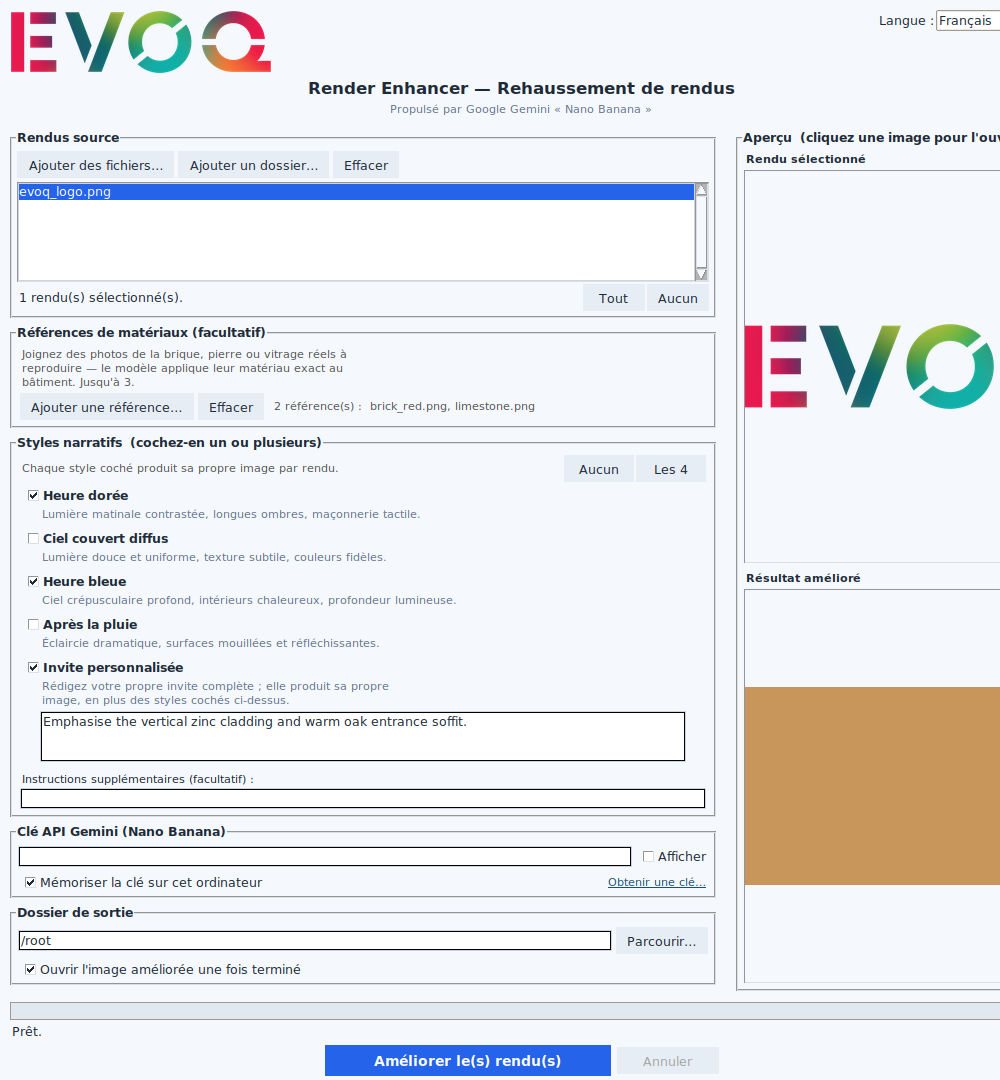
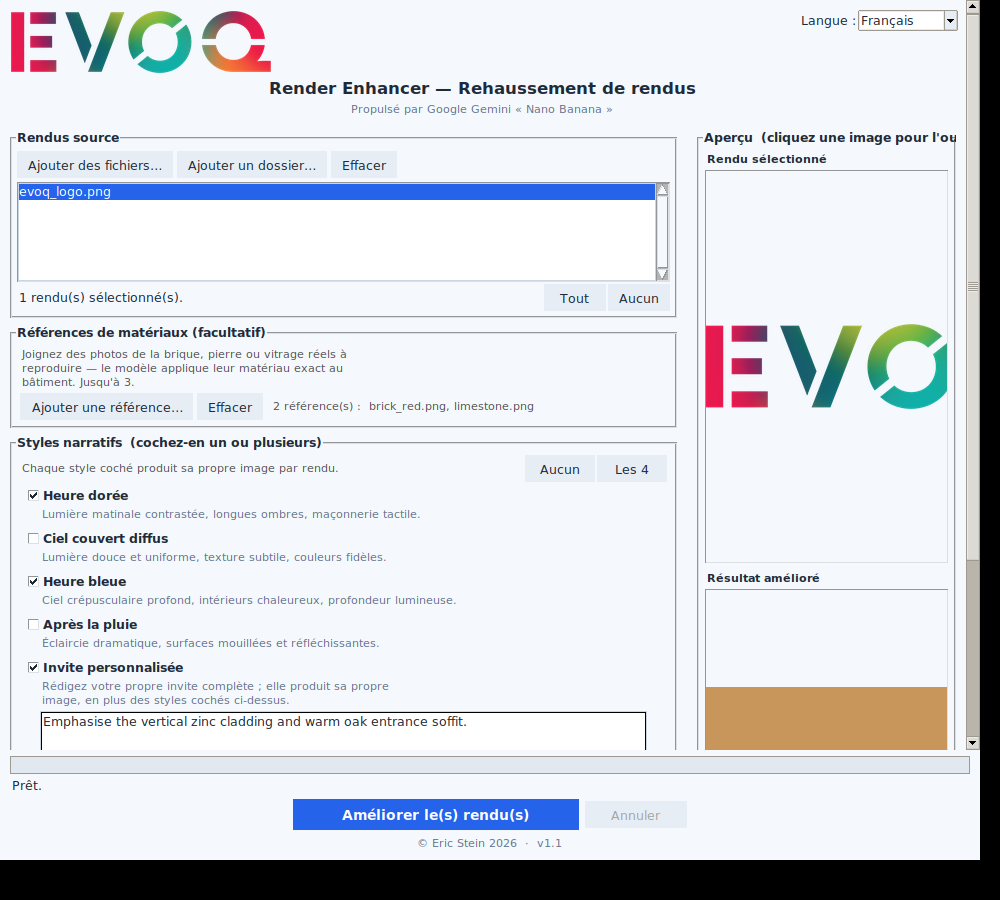
Render Enhancer: scrollable body with pinned action bar
Wrap the panels in a scrollable canvas (mouse wheel + scrollbar) and pin the
progress bar, status line, Enhance/Cancel buttons and footer to a fixed bottom
bar, so the primary actions are always reachable regardless of window or screen
height. Window now opens sized to the screen; minsize lowered accordingly.
Verified: content scrolls, buttons stay visible at a 600px-tall window, batch
runs, and language switch preserves the pinned bar. README/screenshots updated.

Claude-Session: https://claude.ai/code/session_015eGte1JwQfTwFnQ6eJaJkd

Changed region(s): [[0.0, 0.0, 1.0, 1.0], [0.0, 0.0, 0.279, 0.0933], [0.558, 0.4044, 0.62, 0.4356]]

diff --git a/render_enhancer.py b/render_enhancer.py
@@ -621,7 +621,7 @@ class App(_AppBase):
     def __init__(self):
         super().__init__()
         self.title("EVOQ Render Enhancer")
-        self.minsize(720, 660)
+        self.minsize(720, 480)
         self._image_order = []
         self._image_set = set()
         self._ref_order = []
@@ -642,9 +642,21 @@ class App(_AppBase):
         self._set_window_icon()
         self._build_ui()
         self._restore_config()
+        self._set_initial_geometry()
         if HAS_DND:
             self.drop_target_register(DND_FILES)
             self.dnd_bind('<<Drop>>', self._handle_drop)
+
+    def _set_initial_geometry(self):
+        """Open at a comfortable size that fits the screen; the body scrolls."""
+        self.update_idletasks()
+        try:
+            sw, sh = self.winfo_screenwidth(), self.winfo_screenheight()
+        except Exception:
+            sw, sh = 1280, 800
+        w = min(960, max(760, sw - 120))
+        h = min(940, max(480, sh - 100))
+        self.geometry(f"{w}x{h}")
 
     # Persistent tk variables (created once so they survive UI rebuilds) ─────────
     def _init_vars(self):
@@ -757,8 +769,30 @@ class App(_AppBase):
     def _build_ui(self):
         pad = dict(padx=10, pady=5)
 
+        # Root layout: scrollable body (row 0) + fixed action bar (row 1) so the
+        # Enhance/Cancel buttons stay reachable on any screen size.
+        self.rowconfigure(0, weight=1)
+        self.rowconfigure(1, weight=0)
+        self.columnconfigure(0, weight=1)
+
+        canvas = tk.Canvas(self, bg=UI_BG, highlightthickness=0)
+        canvas.grid(row=0, column=0, sticky="nsew")
+        vbar = ttk.Scrollbar(self, orient="vertical", command=canvas.yview)
+        vbar.grid(row=0, column=1, sticky="ns")
+        canvas.configure(yscrollcommand=vbar.set)
+        body = tk.Frame(canvas)
+        body_id = canvas.create_window((0, 0), window=body, anchor="nw")
+        canvas.bind("<Configure>",
+                    lambda e: canvas.itemconfigure(body_id, width=e.width))
+        body.bind("<Configure>",
+                  lambda e: canvas.configure(scrollregion=canvas.bbox("all")))
+        self._bind_wheel(canvas)
+
+        body.columnconfigure(0, weight=1)
+        body.columnconfigure(1, weight=1)
+
         # Header: logo + language selector
-        header = tk.Frame(self)
+        header = tk.Frame(body)
         header.grid(row=0, column=0, columnspan=2, sticky="ew", pady=(10, 0))
         header.columnconfigure(0, weight=1)
         logo_path = _resource_path('evoq_logo.png')
@@ -780,20 +814,17 @@ class App(_AppBase):
         lang_menu.pack(side="left")
         lang_menu.bind("<<ComboboxSelected>>", self._on_language)
 
-        title_box = tk.Frame(self)
+        title_box = tk.Frame(body)
         title_box.grid(row=1, column=0, columnspan=2, pady=(2, 6))
         tk.Label(title_box, text=self.t("subtitle"),
                  font=("Segoe UI", 12, "bold"), fg=UI_FG).pack()
         tk.Label(title_box, text=self.t("powered_by"),
                  font=("Segoe UI", 8), fg=UI_MUTED).pack()
 
-        left = tk.Frame(self)
+        left = tk.Frame(body)
         left.grid(row=2, column=0, sticky="nsew", **pad)
-        right = tk.Frame(self)
+        right = tk.Frame(body)
         right.grid(row=2, column=1, sticky="nsew", **pad)
-        self.columnconfigure(0, weight=1)
-        self.columnconfigure(1, weight=1)
-        self.rowconfigure(2, weight=1)
 
         self._build_image_panel(left)
         self._build_ref_panel(left)
@@ -802,16 +833,19 @@ class App(_AppBase):
         self._build_output_panel(left)
         self._build_preview_panel(right)
 
-        self.progress = ttk.Progressbar(self, length=440, mode="determinate")
-        self.progress.grid(row=3, column=0, columnspan=2, padx=10, pady=(6, 2),
-                           sticky="ew")
+        # Fixed bottom bar (progress + status + actions + copyright)
+        bar = tk.Frame(self)
+        bar.grid(row=1, column=0, columnspan=2, sticky="ew")
+        bar.columnconfigure(0, weight=1)
+        self.progress = ttk.Progressbar(bar, mode="determinate")
+        self.progress.grid(row=0, column=0, padx=10, pady=(6, 2), sticky="ew")
         if not self.status_var.get():
             self.status_var.set(self.t("ready"))
-        tk.Label(self, textvariable=self.status_var, anchor="w").grid(
-            row=4, column=0, columnspan=2, sticky="ew", padx=10)
+        tk.Label(bar, textvariable=self.status_var, anchor="w").grid(
+            row=1, column=0, sticky="ew", padx=10)
 
-        btn_bar = tk.Frame(self)
-        btn_bar.grid(row=5, column=0, columnspan=2, pady=(4, 4))
+        btn_bar = tk.Frame(bar)
+        btn_bar.grid(row=2, column=0, pady=(4, 4))
         self.gen_btn = tk.Button(btn_bar, text=self.t("enhance"),
                                  command=self._generate, width=26,
                                  font=("Segoe UI", 10, "bold"),
@@ -823,11 +857,23 @@ class App(_AppBase):
                                     command=self._request_cancel, state="disabled")
         self.cancel_btn.pack(side="left")
 
-        tk.Label(self, text=COPYRIGHT, anchor="center", fg=UI_MUTED,
+        tk.Label(bar, text=COPYRIGHT, anchor="center", fg=UI_MUTED,
                  font=("Segoe UI", 8)).grid(
-            row=6, column=0, columnspan=2, pady=(0, 8))
+            row=3, column=0, pady=(0, 8))
 
         self._refresh_count()
+
+    def _bind_wheel(self, canvas):
+        def _wheel(event):
+            if getattr(event, "num", None) == 4:
+                canvas.yview_scroll(-1, "units")
+            elif getattr(event, "num", None) == 5:
+                canvas.yview_scroll(1, "units")
+            elif event.delta:
+                canvas.yview_scroll(int(-event.delta / 120), "units")
+        canvas.bind_all("<MouseWheel>", _wheel)   # Windows / macOS
+        canvas.bind_all("<Button-4>", _wheel)     # Linux scroll up
+        canvas.bind_all("<Button-5>", _wheel)     # Linux scroll down
 
     def _build_image_panel(self, parent):
         title = self.t("src_frame") + (self.t("dnd_hint") if HAS_DND else "")

diff --git a/RENDER_ENHANCER_README.md b/RENDER_ENHANCER_README.md
@@ -195,3 +195,7 @@ This rewrites `assets/render_enhancer.ico` and `assets/render_enhancer_icon.png`
   the prompts is a stylistic cue to the model, not a literal output size.
 - If a request is safety-blocked or returns text instead of an image, the app
   reports the reason per file and continues with the rest of the batch.
+- The window opens sized to your screen and the content area scrolls (mouse
+  wheel or scrollbar); the progress bar, status line and **Enhance / Cancel**
+  buttons stay pinned at the bottom so they are always reachable, even on small
+  laptop screens.
